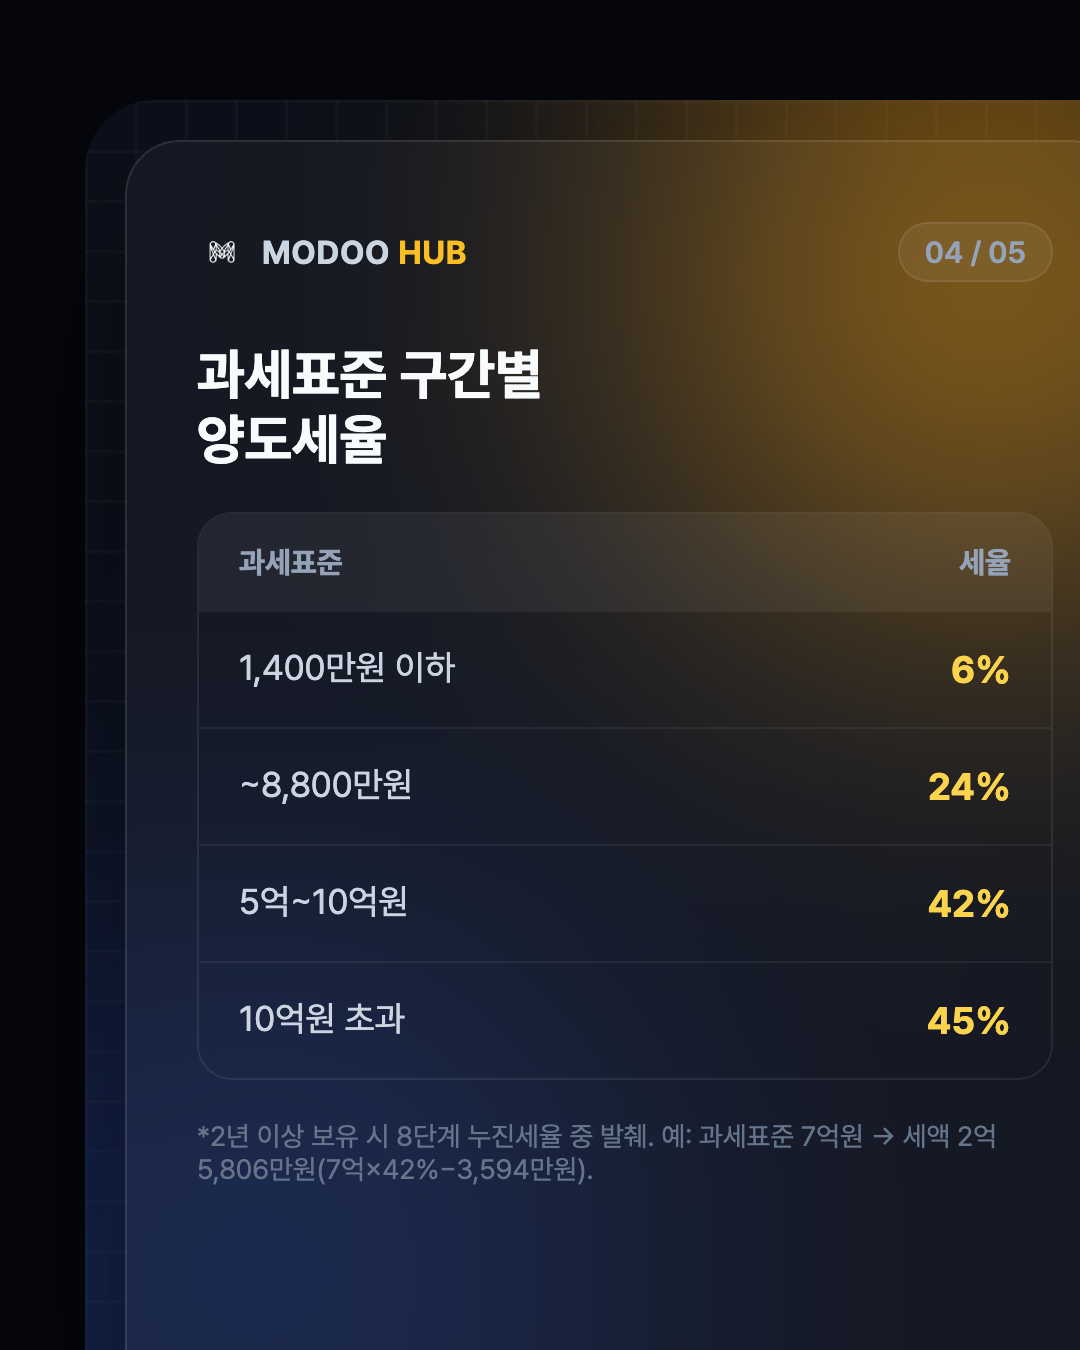
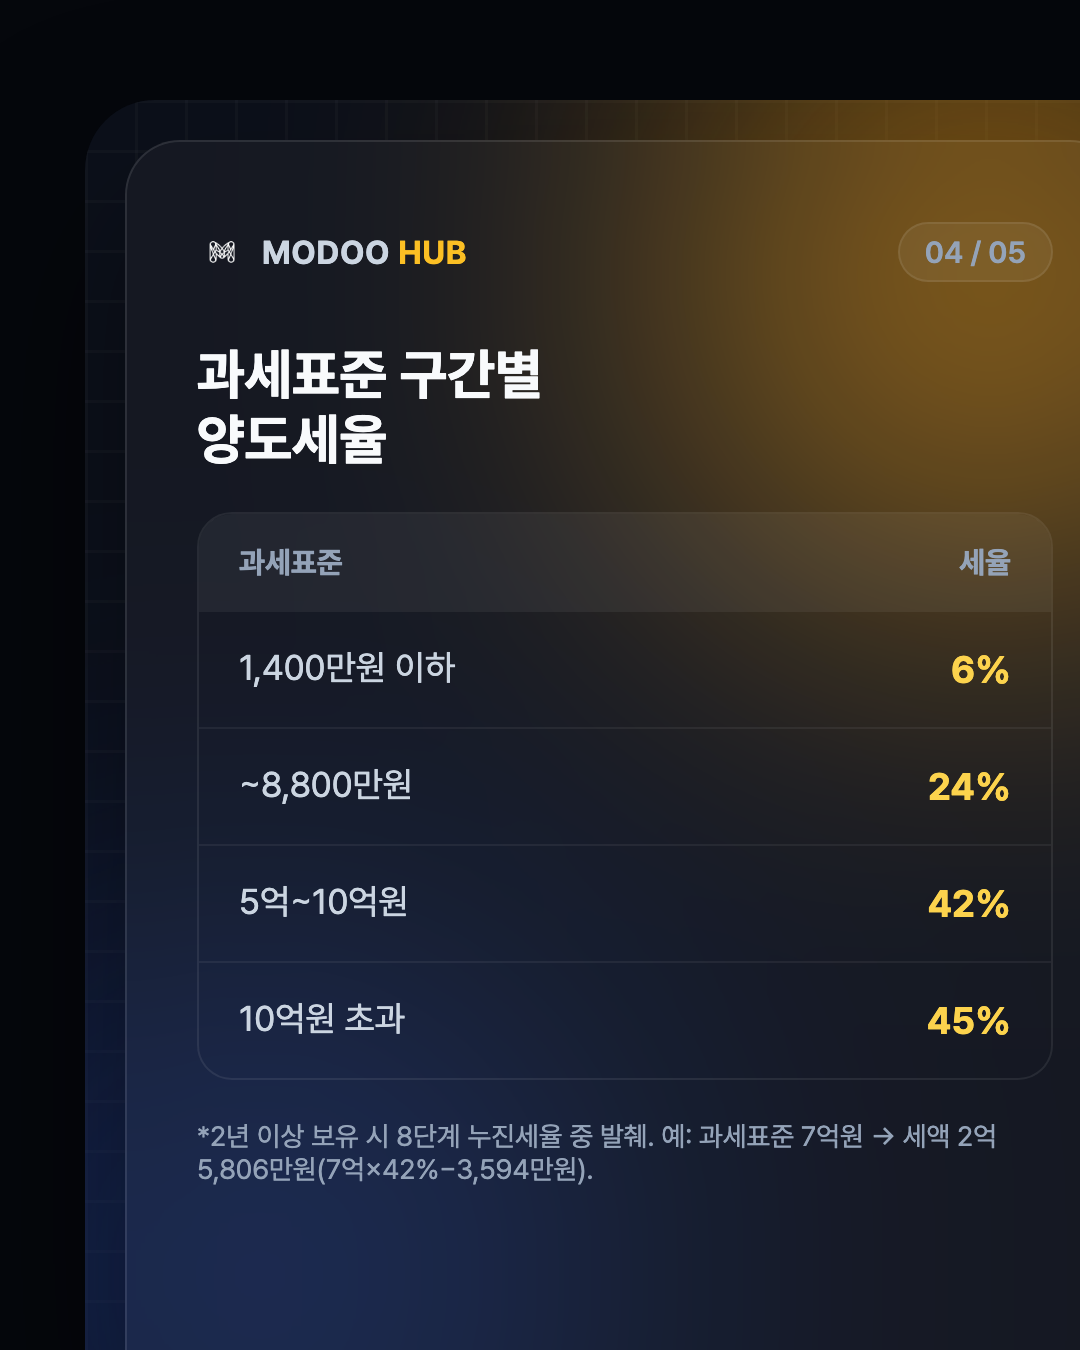
Apply Gemini cross-check fixes: footnote contrast + calorie card context
Dark-theme footnote color bumped from #64748b (~4.0:1 contrast on
#0B0F19, fails WCAG AA for small text) to #94a3b8 (~7.5:1) across the 4
batch-2 templates that used it. Added short context captions under
BMR/TDEE numbers on the calorie card ("하루 숨만 쉬어도 타는 칼로리" /
"현재 체중 유지에 필요한 칼로리"). Affected slides regenerated.

Changed region(s): [[0.1833, 0.8089, 0.6111, 0.8711], [0.6722, 0.84, 0.7333, 0.8711], [0.7639, 0.84, 0.7944, 0.8711]]

diff --git a/promotion/template/kr-capital-gains-tax.html b/promotion/template/kr-capital-gains-tax.html
@@ -58,7 +58,7 @@
               <div><div style="font-size:15px; font-weight:600; color:#f1f5f9;">1세대1주택 비과세 요건 모름</div><div style="font-size:13px; color:#94a3b8; margin-top:2px;">2년 보유+거주, 양도가 12억 이하</div></div>
             </div>
           </div>
-          <p style="font-size:12px; color:#64748b; margin:8px 0 0;">📌 매도 전에 꼭 확인, 지금 저장해두기</p>
+          <p style="font-size:12px; color:#94a3b8; margin:8px 0 0;">📌 매도 전에 꼭 확인, 지금 저장해두기</p>
         </div>
 
         <div class="slide" data-slide="2" style="flex-direction:column; flex:1; justify-content:center; gap:18px;">
@@ -96,7 +96,7 @@
               <span style="flex:1; font-size:15px; font-weight:700; color:#fcd34d; text-align:right;">45%</span>
             </div>
           </div>
-          <p style="font-size:11px; color:#64748b; margin:0;">*2년 이상 보유 시 8단계 누진세율 중 발췌. 예: 과세표준 7억원 → 세액 2억 5,806만원(7억×42%−3,594만원).</p>
+          <p style="font-size:11px; color:#94a3b8; margin:0;">*2년 이상 보유 시 8단계 누진세율 중 발췌. 예: 과세표준 7억원 → 세액 2억 5,806만원(7억×42%−3,594만원).</p>
         </div>
 
         <div class="slide" data-slide="4" style="flex-direction:column; flex:1; justify-content:center; align-items:center; text-align:center; gap:18px;">

diff --git a/promotion/template/kr-calorie.html b/promotion/template/kr-calorie.html
@@ -47,11 +47,13 @@
               <div style="font-size:11px; font-weight:700; color:#b45309;">기초대사량(BMR)</div>
               <div style="font-size:26px; font-weight:900; color:#0f172a; margin-top:6px;">1,649</div>
               <div style="font-size:11px; color:#92400e;">kcal</div>
+              <div style="font-size:10px; color:#b45309; margin-top:4px; line-height:1.4;">하루 숨만 쉬어도<br/>타는 칼로리</div>
             </div>
             <div style="flex:1; background:#fef3c7; border:1px solid #fcd34d; border-radius:16px; padding:16px 10px;">
               <div style="font-size:11px; font-weight:700; color:#92400e;">TDEE(총 소비량)</div>
               <div style="font-size:26px; font-weight:900; color:#0f172a; margin-top:6px;">2,556</div>
               <div style="font-size:11px; color:#92400e;">kcal</div>
+              <div style="font-size:10px; color:#92400e; margin-top:4px; line-height:1.4;">현재 체중 유지에<br/>필요한 칼로리</div>
             </div>
           </div>
           <span style="font-size:12px; color:#94a3b8;">30세 남성 · 175cm · 70kg · 보통 활동 기준 예시</span>

diff --git a/promotion/template/global-inflation-calculator.html b/promotion/template/global-inflation-calculator.html
@@ -99,7 +99,7 @@
               <span style="flex:1; font-size:15px; font-weight:700; color:#fcd34d; text-align:right;">5.5%</span>
             </div>
           </div>
-          <p style="font-size:11px; color:#64748b; margin:0;">*Long-run historical averages, not current-year figures.</p>
+          <p style="font-size:11px; color:#94a3b8; margin:0;">*Long-run historical averages, not current-year figures.</p>
         </div>
 
         <div class="slide" data-slide="4" style="flex-direction:column; flex:1; justify-content:center; align-items:center; text-align:center; gap:18px;">

diff --git a/promotion/template/kr-four-insurance.html b/promotion/template/kr-four-insurance.html
@@ -82,7 +82,7 @@
               <span style="flex:1; font-size:15px; font-weight:700; color:#fcd34d; text-align:right;">0.9%</span>
             </div>
           </div>
-          <p style="font-size:11px; color:#64748b; margin:0;">*국민연금은 9%→9.5%로 인상, 최종 목표 13%까지 단계적 인상 예정.</p>
+          <p style="font-size:11px; color:#94a3b8; margin:0;">*국민연금은 9%→9.5%로 인상, 최종 목표 13%까지 단계적 인상 예정.</p>
         </div>
 
         <div class="slide" data-slide="3" style="flex-direction:column; flex:1; gap:18px;">

diff --git a/promotion/template/global-vat-calculator.html b/promotion/template/global-vat-calculator.html
@@ -79,7 +79,7 @@
               <span style="flex:1; font-size:15px; font-weight:700; color:#fcd34d; text-align:right;">27%</span>
             </div>
           </div>
-          <p style="font-size:11px; color:#64748b; margin:0;">*EU directive sets a 15% minimum standard rate for member states.</p>
+          <p style="font-size:11px; color:#94a3b8; margin:0;">*EU directive sets a 15% minimum standard rate for member states.</p>
         </div>
 
         <div class="slide" data-slide="3" style="flex-direction:column; flex:1; gap:18px;">
